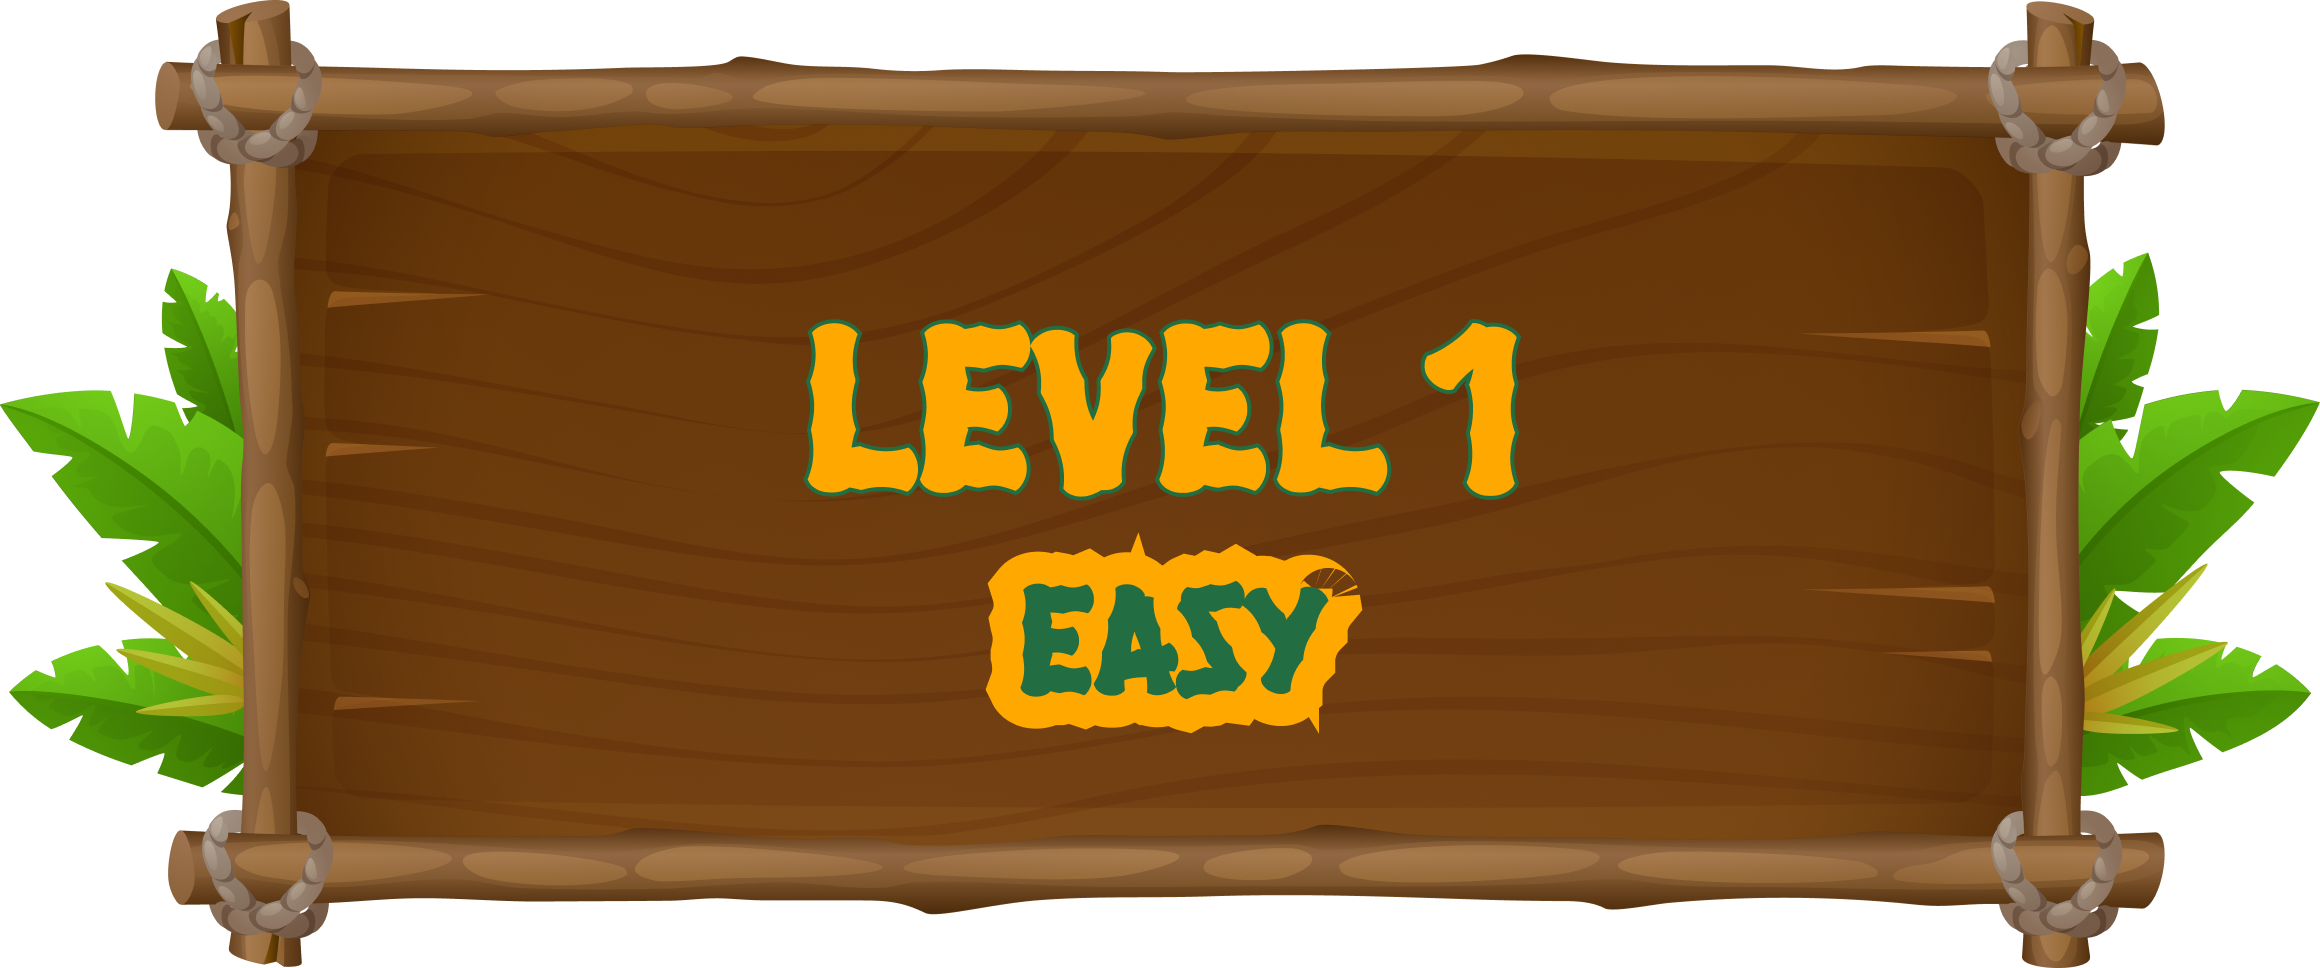
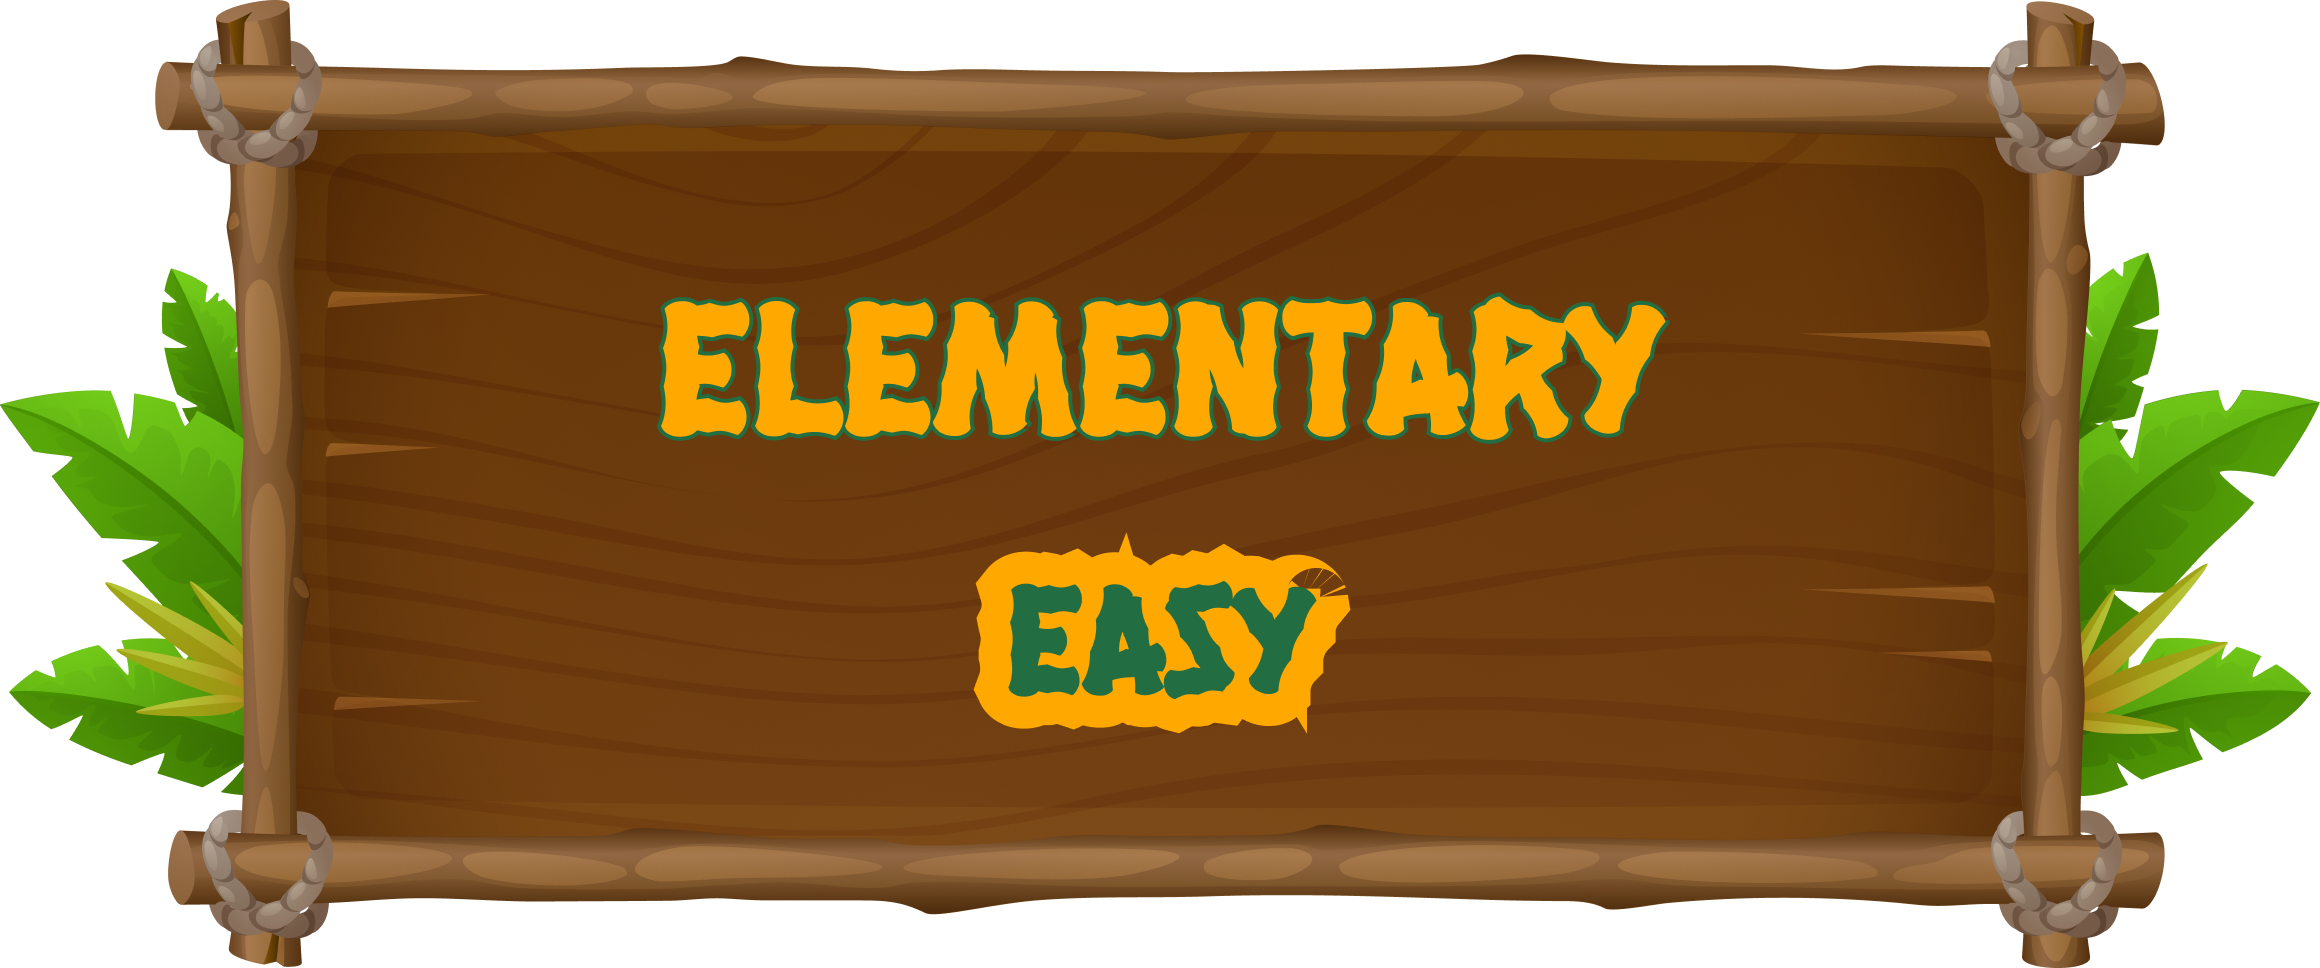
SincsolGame

Changed region(s): [[0.2793, 0.3099, 0.7448, 0.5269], [0.4034, 0.5579, 0.5897, 0.7748]]

diff --git a/Sincsol Game Project(Me)/public/LevelSelectionPage.html b/Sincsol Game Project(Me)/public/LevelSelectionPage.html
@@ -14,7 +14,7 @@
     
         <div class="woodenblockcontainer">
             <div class="style-container animate__animated animate__bounceInDown animate__slow">
-            <img class="woodenblockimage " src="Assets/Level Selection Board.png"/>
+            <img class="woodenblockimage " src="Assets/Level Selection.png"/>
         
             <button id="btn1" class="button" onclick="selectLevel(1)"></button>
             <button id="btn2" class="button" onclick="selectLevel(2)"></button>
